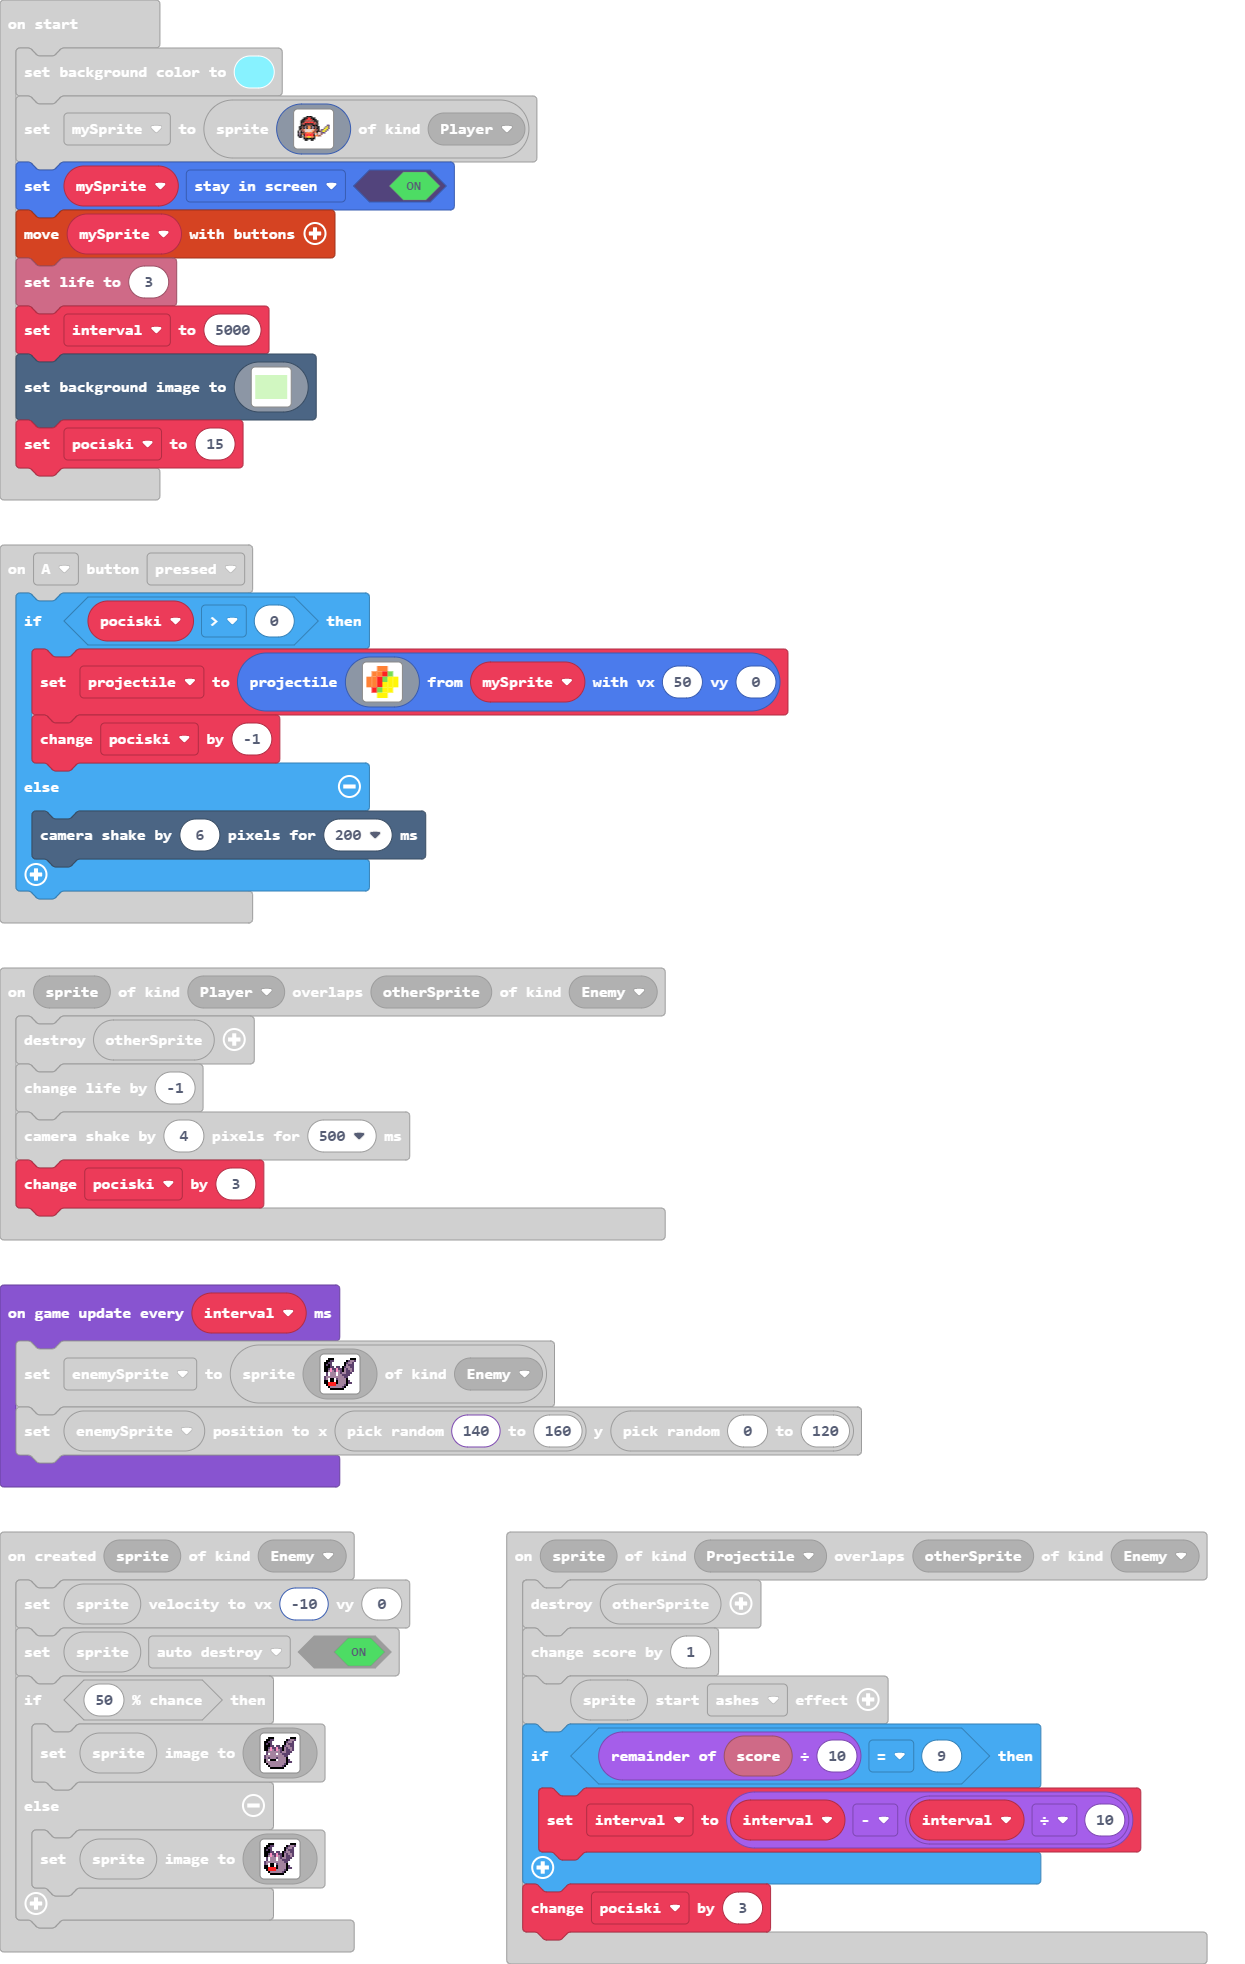
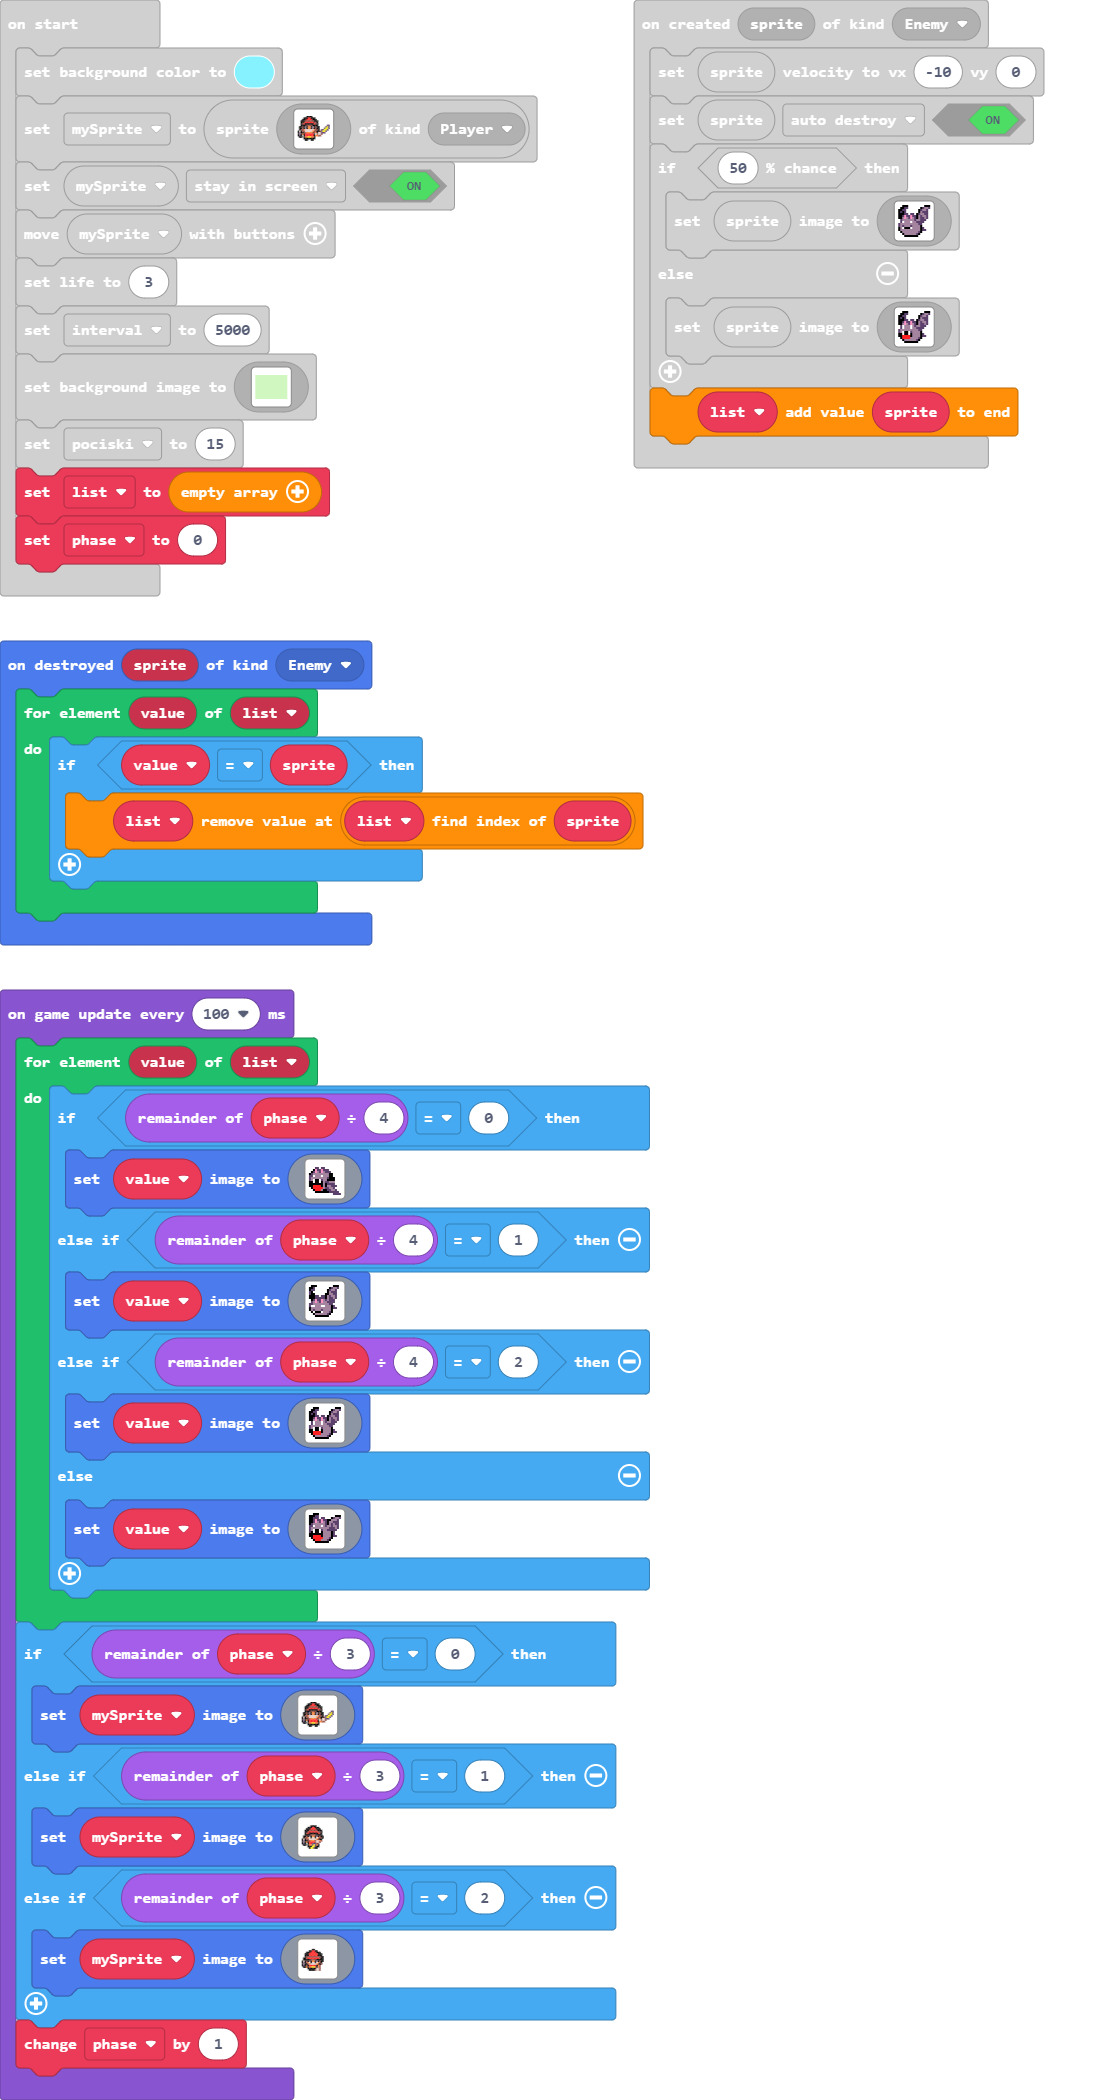
Update main.blocks, main.ts

diff --git a/main.ts b/main.ts
@@ -40,6 +40,7 @@ sprites.onCreated(SpriteKind.Enemy, function (sprite) {
             . . . f f f f f f f . . . . . . 
             `)
     }
+    list.push(sprite)
 })
 controller.A.onEvent(ControllerButtonEvent.Pressed, function () {
     if (pociski > 0) {
@@ -54,6 +55,13 @@ controller.A.onEvent(ControllerButtonEvent.Pressed, function () {
         pociski += -1
     } else {
         scene.cameraShake(6, 200)
+    }
+})
+sprites.onDestroyed(SpriteKind.Enemy, function (sprite) {
+    for (let value of list) {
+        if (value == sprite) {
+            list.removeAt(list.indexOf(sprite))
+        }
     }
 })
 sprites.onOverlap(SpriteKind.Projectile, SpriteKind.Enemy, function (sprite, otherSprite) {
@@ -73,6 +81,7 @@ sprites.onOverlap(SpriteKind.Player, SpriteKind.Enemy, function (sprite, otherSp
 })
 let enemySprite: Sprite = null
 let projectile: Sprite = null
+let list: Sprite[] = []
 let pociski = 0
 let interval = 0
 let mySprite: Sprite = null
@@ -223,6 +232,8 @@ scene.setBackgroundImage(img`
     7777777777777777777777777777777777777777777777777777777777777777777777777777777777777777777777777777777777777777777777777777777777777777777777777777777777777777
     `)
 pociski = 15
+list = []
+let phase = 0
 game.onUpdateInterval(interval, function () {
     enemySprite = sprites.create(img`
         . . f f f . . . . . . . . f f f 
@@ -243,4 +254,147 @@ game.onUpdateInterval(interval, function () {
         . . . f f f f f f f . . . . . . 
         `, SpriteKind.Enemy)
     enemySprite.setPosition(randint(140, 160), randint(0, 120))
+})
+game.onUpdateInterval(100, function () {
+    for (let value of list) {
+        if (phase % 4 == 0) {
+            value.setImage(img`
+                . . . . . . . . . . . . . . . . 
+                . . . . . . . . . . . . . . . . 
+                . . . c c . c c . . . . . . . . 
+                . . f 3 c c 3 c c c . . . . . . 
+                . f c 3 b c 3 b c c c . . . . . 
+                f c b b b b b b b b f f . . . . 
+                c c 1 b b b 1 b b b f f . . . . 
+                c b b b b b b b b c f f f . . . 
+                c b 1 f f 1 c b b f f f f . . . 
+                f f 1 f f 1 f b c c b b b . . . 
+                f f f f f f f b f c c c c . . . 
+                f f 2 2 2 2 f b f b b c c c . . 
+                . f 2 2 2 2 2 b c c b b c . . . 
+                . . f 2 2 2 b f f c c b b c . . 
+                . . . f f f f f f f c c c c c . 
+                . . . . . . . . . . . . c c c c 
+                `)
+        } else if (phase % 4 == 1) {
+            value.setImage(img`
+                . f f f . . . . . . . . f f f . 
+                f f c . . . . . . . f c b b c . 
+                f c c . . . . . . f c b b c . . 
+                c f . . . . . . . f b c c c . . 
+                c f f . . . . . f f b b c c . . 
+                f f f c c . c c f b c b b c . . 
+                f f f c c c c c f b c c b c . . 
+                . f c 3 c c 3 b c b c c c . . . 
+                . c b 3 b c 3 b b c c c c . . . 
+                c c b b b b b b b b c c . . . . 
+                c 1 1 b b b 1 1 b b b f c . . . 
+                f b b b b b b b b b b f c c . . 
+                f b c b b b c b b b b f . . . . 
+                . f 1 f f f 1 b b b c f . . . . 
+                . . f b b b b b b c f . . . . . 
+                . . . f f f f f f f . . . . . . 
+                `)
+        } else if (phase % 4 == 2) {
+            value.setImage(img`
+                . . f f f . . . . . . . . f f f 
+                . f f c c . . . . . . f c b b c 
+                f f c c . . . . . . f c b b c . 
+                f c f c . . . . . . f b c c c . 
+                f f f c c . c c . f c b b c c . 
+                f f c 3 c c 3 c c f b c b b c . 
+                f f b 3 b c 3 b c f b c c b c . 
+                . c 1 b b b 1 b c b b c c c . . 
+                . c 1 b b b 1 b b c c c c . . . 
+                c b b b b b b b b b c c . . . . 
+                c b 1 f f 1 c b b b b f . . . . 
+                f f 1 f f 1 f b b b b f c . . . 
+                f f 2 2 2 2 f b b b b f c c . . 
+                . f 2 2 2 2 b b b b c f . . . . 
+                . . f b b b b b b c f . . . . . 
+                . . . f f f f f f f . . . . . . 
+                `)
+        } else {
+            value.setImage(img`
+                . . f f f . . . . . . . . . . . 
+                f f f c c . . . . . . . . f f f 
+                f f c c c . c c . . . f c b b c 
+                f f c 3 c c 3 c c f f b b b c . 
+                f f c 3 b c 3 b c f b b c c c . 
+                f c b b b b b b c f b c b c c . 
+                c c 1 b b b 1 b c b b c b b c . 
+                c b b b b b b b b b c c c b c . 
+                c b 1 f f 1 c b b c c c c c . . 
+                c f 1 f f 1 f b b b b f c . . . 
+                f f f f f f f b b b b f c . . . 
+                f f 2 2 2 2 f b b b b f c c . . 
+                . f 2 2 2 2 2 b b b c f . . . . 
+                . . f 2 2 2 b b b c f . . . . . 
+                . . . f f f f f f f . . . . . . 
+                . . . . . . . . . . . . . . . . 
+                `)
+        }
+    }
+    if (phase % 3 == 0) {
+        mySprite.setImage(img`
+            ......ffff............
+            ....fff22fff..........
+            ...fff2222fff.........
+            ..fffeeeeeefff........
+            ..ffe222222eef........
+            ..fe2ffffff2ef........
+            ..ffffeeeeffff......cc
+            .ffefbf44fbfeff....c5c
+            .ffefbf44fbfeff...c55c
+            .fee4dddddd4eef.cc55c.
+            fdfeeddddd4eeffec55c..
+            fbffee4444ee4fddccc...
+            fbf4f222222f1edde.....
+            fcf.f222222f44ee......
+            .ff.f445544f..........
+            ....ffffffff..........
+            .....ff..ff...........
+            `)
+    } else if (phase % 3 == 1) {
+        mySprite.setImage(img`
+            ......................
+            ......ffff............
+            ....fff22fff..........
+            ...fff2222fff.........
+            ..fffeeeeeefff........
+            ..ffe222222eef........
+            ..fe2ffffff2ef........
+            ..ffffeeeeffff........
+            .ffefbf44fbfeff.......
+            .fee41fddf14eef.......
+            fdfeeddddd4eff........
+            fbffee444edd4e........
+            fbf4f2222edde.........
+            fcf.f22cccee..........
+            .ff.f44c5c4f..........
+            ....fff55cff..........
+            .....f55cff...........
+            `)
+    } else if (phase % 3 == 2) {
+        mySprite.setImage(img`
+            ......................
+            ......................
+            .......ff.............
+            .....ff22ff...........
+            ...fff2222fff.........
+            ..fff222222fff........
+            ..fff222222fff........
+            ..feeeeeeeeeeff.......
+            .ffe22222222eff.......
+            .fffffeeeefffff.......
+            fdfefbf44fbfeff.......
+            fbfe41fddf14ef........
+            fbffe4dddd4efe........
+            fcfef22222f4e.........
+            .ff4f44554f4e.........
+            ....ffffffdde.........
+            .....ffffedde.........
+            `)
+    }
+    phase += 1
 })
